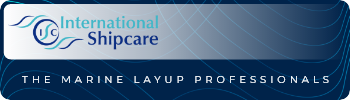
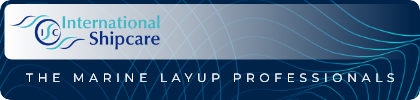
enlarge background images

diff --git a/index.html b/index.html
@@ -4,17 +4,16 @@
   <meta http-equiv="Content-Type" content="text/html; charset=UTF-8">
   <meta name="viewport" content="width=device-width, initial-scale=1">
   <meta http-equiv="X-UA-Compatible" content="IE=edge">
-  <title>International Shipcare: Selamat Hari Raya Aidilfitri</title>
   <style type="text/css">
 
     body {
         font-family: sans-serif;
         color: #00234a;
-        font-size: 9px;
+        font-size: 12px;
     }
 
     h1 {
-        font-size: 14px;
+        font-size: 16px;
         letter-spacing: 2px;
         line-height: 0;
     }
@@ -34,10 +33,10 @@
 </head>
 <body background-color:#FFFFFF;>
 
-    <table width="350" height="130" background="https://cdn.jsdelivr.net/gh/izz133/isc-signature/images/sign-bg.png">
+    <table width="420" height="155" background="https://cdn.jsdelivr.net/gh/izz133/isc-signature/images/sign-bg.png">
         <tr>
             <td>
-                <table width="340">
+                <table width="400">
                     <tr>
                         <td width="5"></td>
                         <td><h1>MOHD IZZ MOHD YACOB</h1></td>
@@ -53,8 +52,8 @@
                 <table>
                     <tr>
                         <td width="5"></td>
-                        <td width="80px"><strong>Mobile</strong></td>
-                        <td width="80px"><strong>Phone</strong></td>
+                        <td width="100px"><strong>Mobile</strong></td>
+                        <td width="100px"><strong>Phone</strong></td>
                         <td width="175px"><strong>Email</strong></td>
                     </tr>
                     <tr>
